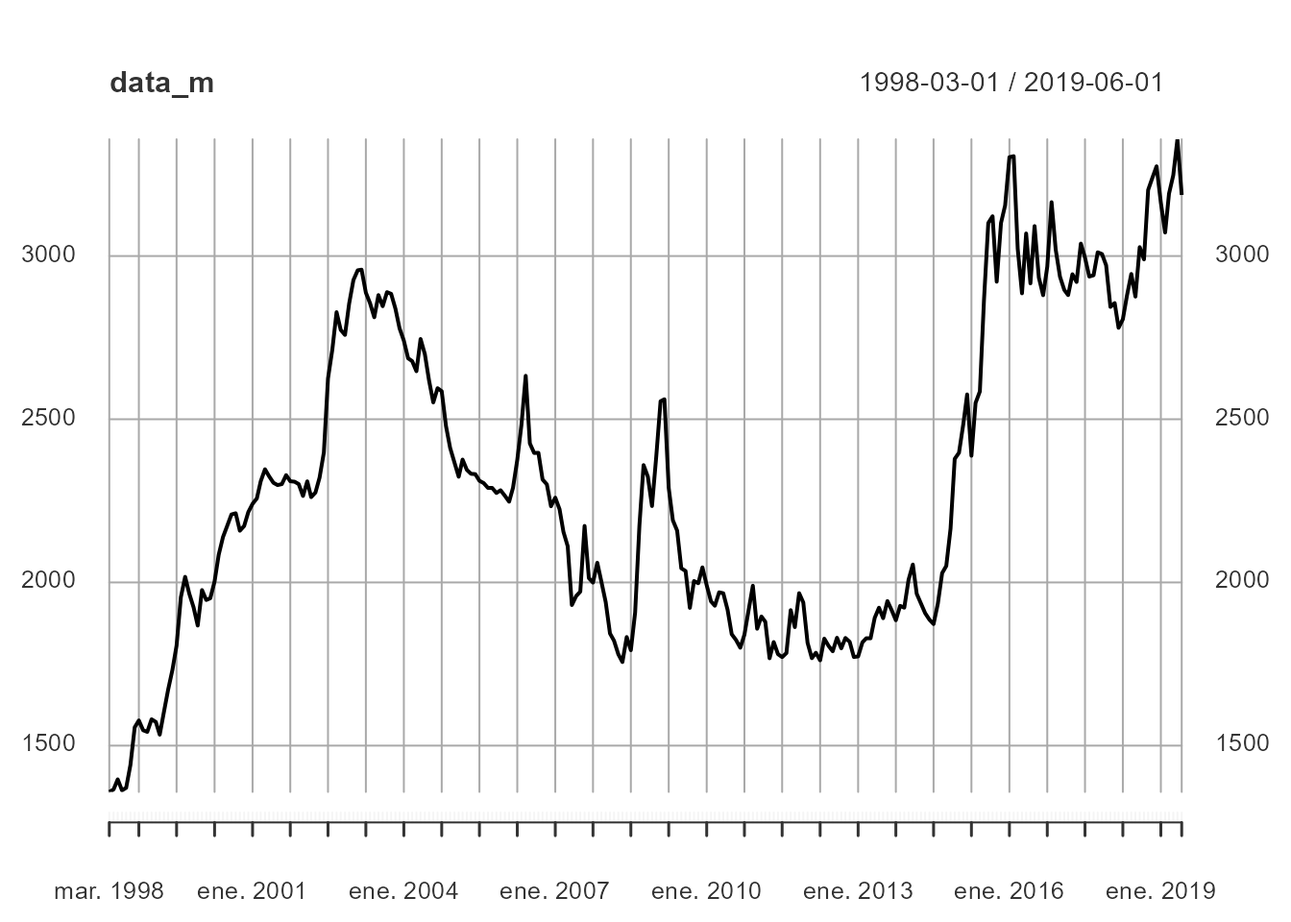
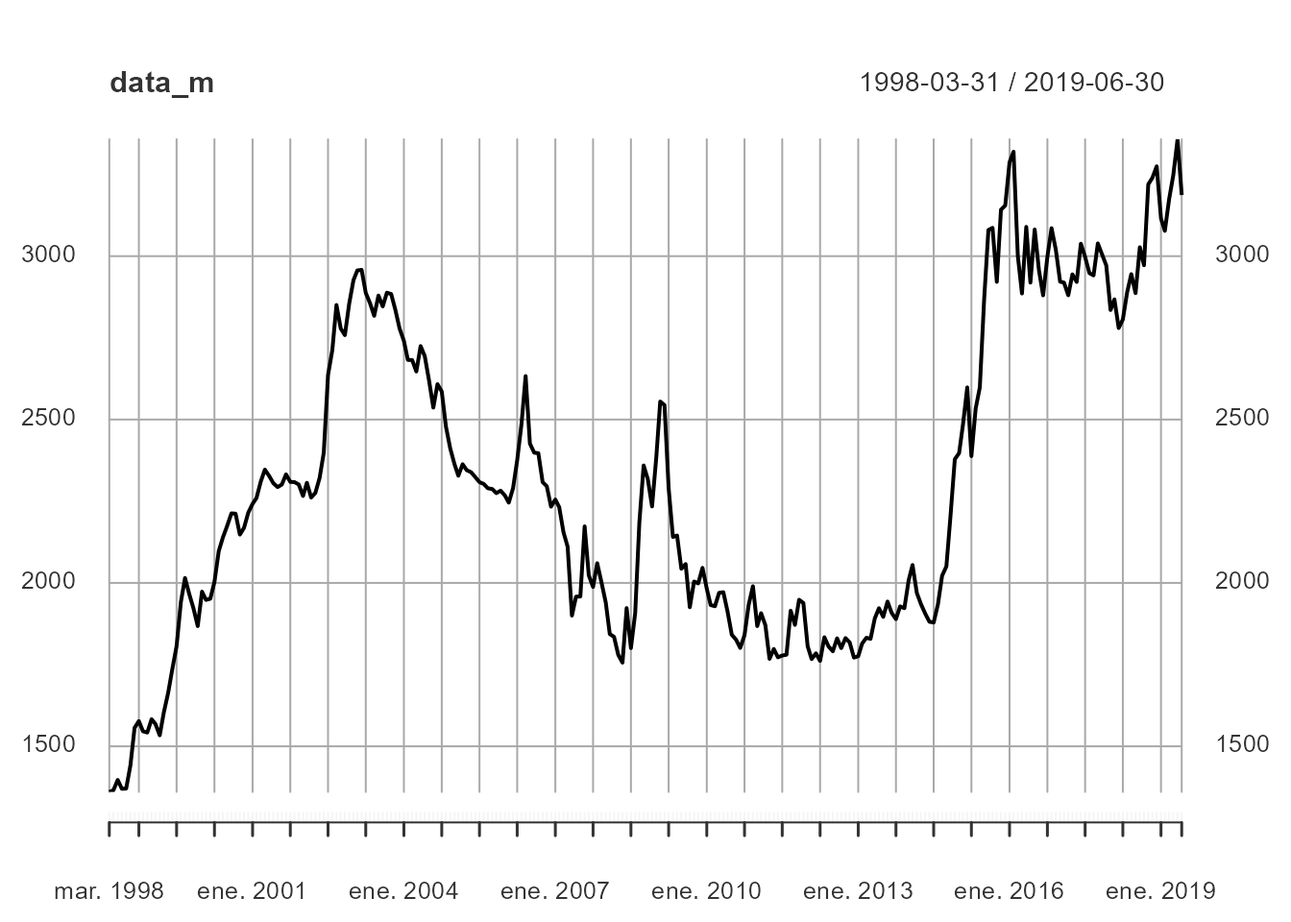
cambios en pagina

diff --git a/docs/articles/citmre.html b/docs/articles/citmre.html
@@ -7,12 +7,19 @@
 <meta name="viewport" content="width=device-width, initial-scale=1, shrink-to-fit=no">
 <meta name="description" content="citmre">
 <title>cITMre • citmre</title>
+<!-- favicons --><link rel="icon" type="image/png" sizes="16x16" href="../favicon-16x16.png">
+<link rel="icon" type="image/png" sizes="32x32" href="../favicon-32x32.png">
+<link rel="apple-touch-icon" type="image/png" sizes="180x180" href="../apple-touch-icon.png">
+<link rel="apple-touch-icon" type="image/png" sizes="120x120" href="../apple-touch-icon-120x120.png">
+<link rel="apple-touch-icon" type="image/png" sizes="76x76" href="../apple-touch-icon-76x76.png">
+<link rel="apple-touch-icon" type="image/png" sizes="60x60" href="../apple-touch-icon-60x60.png">
 <script src="../deps/jquery-3.6.0/jquery-3.6.0.min.js"></script><meta name="viewport" content="width=device-width, initial-scale=1, shrink-to-fit=no">
 <link href="../deps/bootstrap-5.3.1/bootstrap.min.css" rel="stylesheet">
 <script src="../deps/bootstrap-5.3.1/bootstrap.bundle.min.js"></script><!-- Font Awesome icons --><link rel="stylesheet" href="https://cdnjs.cloudflare.com/ajax/libs/font-awesome/5.12.1/css/all.min.css" integrity="sha256-mmgLkCYLUQbXn0B1SRqzHar6dCnv9oZFPEC1g1cwlkk=" crossorigin="anonymous">
 <link rel="stylesheet" href="https://cdnjs.cloudflare.com/ajax/libs/font-awesome/5.12.1/css/v4-shims.min.css" integrity="sha256-wZjR52fzng1pJHwx4aV2AO3yyTOXrcDW7jBpJtTwVxw=" crossorigin="anonymous">
 <!-- bootstrap-toc --><script src="https://cdn.jsdelivr.net/gh/afeld/bootstrap-toc@v1.0.1/dist/bootstrap-toc.min.js" integrity="sha256-4veVQbu7//Lk5TSmc7YV48MxtMy98e26cf5MrgZYnwo=" crossorigin="anonymous"></script><!-- headroom.js --><script src="https://cdnjs.cloudflare.com/ajax/libs/headroom/0.11.0/headroom.min.js" integrity="sha256-AsUX4SJE1+yuDu5+mAVzJbuYNPHj/WroHuZ8Ir/CkE0=" crossorigin="anonymous"></script><script src="https://cdnjs.cloudflare.com/ajax/libs/headroom/0.11.0/jQuery.headroom.min.js" integrity="sha256-ZX/yNShbjqsohH1k95liqY9Gd8uOiE1S4vZc+9KQ1K4=" crossorigin="anonymous"></script><!-- clipboard.js --><script src="https://cdnjs.cloudflare.com/ajax/libs/clipboard.js/2.0.6/clipboard.min.js" integrity="sha256-inc5kl9MA1hkeYUt+EC3BhlIgyp/2jDIyBLS6k3UxPI=" crossorigin="anonymous"></script><!-- search --><script src="https://cdnjs.cloudflare.com/ajax/libs/fuse.js/6.4.6/fuse.js" integrity="sha512-zv6Ywkjyktsohkbp9bb45V6tEMoWhzFzXis+LrMehmJZZSys19Yxf1dopHx7WzIKxr5tK2dVcYmaCk2uqdjF4A==" crossorigin="anonymous"></script><script src="https://cdnjs.cloudflare.com/ajax/libs/autocomplete.js/0.38.0/autocomplete.jquery.min.js" integrity="sha512-GU9ayf+66Xx2TmpxqJpliWbT5PiGYxpaG8rfnBEk1LL8l1KGkRShhngwdXK1UgqhAzWpZHSiYPc09/NwDQIGyg==" crossorigin="anonymous"></script><script src="https://cdnjs.cloudflare.com/ajax/libs/mark.js/8.11.1/mark.min.js" integrity="sha512-5CYOlHXGh6QpOFA/TeTylKLWfB3ftPsde7AnmhuitiTX4K5SqCLBeKro6sPS8ilsz1Q4NRx3v8Ko2IBiszzdww==" crossorigin="anonymous"></script><!-- pkgdown --><script src="../pkgdown.js"></script><meta property="og:title" content="cITMre">
 <meta property="og:description" content="citmre">
+<meta property="og:image" content="https://davrodecon.github.io/citmre/logo.png">
 <!-- mathjax --><script src="https://cdnjs.cloudflare.com/ajax/libs/mathjax/2.7.5/MathJax.js" integrity="sha256-nvJJv9wWKEm88qvoQl9ekL2J+k/RWIsaSScxxlsrv8k=" crossorigin="anonymous"></script><script src="https://cdnjs.cloudflare.com/ajax/libs/mathjax/2.7.5/config/TeX-AMS-MML_HTMLorMML.js" integrity="sha256-84DKXVJXs0/F8OTMzX4UR909+jtl4G7SPypPavF+GfA=" crossorigin="anonymous"></script><!--[if lt IE 9]>
 <script src="https://oss.maxcdn.com/html5shiv/3.7.3/html5shiv.min.js"></script>
 <script src="https://oss.maxcdn.com/respond/1.4.2/respond.min.js"></script>
@@ -65,7 +72,7 @@
 
 <div class="row">
   <main id="main" class="col-md-9"><div class="page-header">
-      <img src="" class="logo" alt=""><h1>cITMre</h1>
+      <img src="../logo.png" class="logo" alt=""><h1>cITMre</h1>
             
       
       <small class="dont-index">Source: <a href="https://github.com/DavRodEcon/citmre/blob/HEAD/vignettes/citmre.Rmd" class="external-link"><code>vignettes/citmre.Rmd</code></a></small>
@@ -197,20 +204,20 @@ By default, the <code>type</code> is set to <code>last_date</code>.</p>
 <span><span class="va">data_m</span> <span class="op">&lt;-</span> <span class="fu"><a href="../reference/rmre_data.html">rmre_data</a></span><span class="op">(</span>start_date <span class="op">=</span> <span class="st">"1998-03-18"</span>, end_date <span class="op">=</span> <span class="st">"2019-06-26"</span>,frequency <span class="op">=</span> <span class="fl">12</span><span class="op">)</span></span>
 <span><span class="fu"><a href="https://rdrr.io/r/utils/head.html" class="external-link">head</a></span><span class="op">(</span><span class="va">data_m</span><span class="op">)</span></span>
 <span><span class="co">#&gt;               rmre</span></span>
-<span><span class="co">#&gt; 1998-03-01 1358.03</span></span>
-<span><span class="co">#&gt; 1998-04-01 1365.72</span></span>
-<span><span class="co">#&gt; 1998-05-01 1396.69</span></span>
-<span><span class="co">#&gt; 1998-06-01 1363.04</span></span>
-<span><span class="co">#&gt; 1998-07-01 1370.65</span></span>
-<span><span class="co">#&gt; 1998-08-01 1440.87</span></span>
+<span><span class="co">#&gt; 1998-03-31 1360.26</span></span>
+<span><span class="co">#&gt; 1998-04-30 1365.72</span></span>
+<span><span class="co">#&gt; 1998-05-31 1397.07</span></span>
+<span><span class="co">#&gt; 1998-06-30 1369.88</span></span>
+<span><span class="co">#&gt; 1998-07-31 1370.65</span></span>
+<span><span class="co">#&gt; 1998-08-31 1441.86</span></span>
 <span><span class="fu"><a href="https://rdrr.io/r/utils/head.html" class="external-link">tail</a></span><span class="op">(</span><span class="va">data_m</span><span class="op">)</span></span>
 <span><span class="co">#&gt;               rmre</span></span>
-<span><span class="co">#&gt; 2019-01-01 3163.46</span></span>
-<span><span class="co">#&gt; 2019-02-01 3072.01</span></span>
-<span><span class="co">#&gt; 2019-03-01 3190.94</span></span>
-<span><span class="co">#&gt; 2019-04-01 3247.72</span></span>
-<span><span class="co">#&gt; 2019-05-01 3357.82</span></span>
-<span><span class="co">#&gt; 2019-06-01 3187.15</span></span>
+<span><span class="co">#&gt; 2019-01-31 3115.70</span></span>
+<span><span class="co">#&gt; 2019-02-28 3077.35</span></span>
+<span><span class="co">#&gt; 2019-03-31 3174.79</span></span>
+<span><span class="co">#&gt; 2019-04-30 3247.72</span></span>
+<span><span class="co">#&gt; 2019-05-31 3357.82</span></span>
+<span><span class="co">#&gt; 2019-06-30 3187.15</span></span>
 <span><span class="fu"><a href="https://rdrr.io/r/graphics/plot.default.html" class="external-link">plot</a></span><span class="op">(</span><span class="va">data_m</span><span class="op">)</span></span></code></pre></div>
 <p><img src="citmre_files/figure-html/plot_456-1.png" width="672" style="display: block; margin: auto;"></p>
 <div class="sourceCode" id="cb6"><pre class="downlit sourceCode r">
@@ -219,20 +226,20 @@ By default, the <code>type</code> is set to <code>last_date</code>.</p>
 <span><span class="va">data_q</span> <span class="op">&lt;-</span> <span class="fu"><a href="../reference/rmre_data.html">rmre_data</a></span><span class="op">(</span>start_date <span class="op">=</span> <span class="st">"1998-03-18"</span>, end_date <span class="op">=</span> <span class="st">"2019-06-26"</span>,frequency <span class="op">=</span> <span class="fl">4</span>, log_return <span class="op">=</span> <span class="cn">T</span><span class="op">)</span></span>
 <span><span class="fu"><a href="https://rdrr.io/r/utils/head.html" class="external-link">head</a></span><span class="op">(</span><span class="va">data_q</span><span class="op">)</span></span>
 <span><span class="co">#&gt;              log_return</span></span>
-<span><span class="co">#&gt; 1998-04-01  0.003682379</span></span>
-<span><span class="co">#&gt; 1998-07-01  0.132497323</span></span>
-<span><span class="co">#&gt; 1998-10-01 -0.009063214</span></span>
-<span><span class="co">#&gt; 1999-01-01 -0.005592383</span></span>
-<span><span class="co">#&gt; 1999-04-01  0.121775320</span></span>
-<span><span class="co">#&gt; 1999-07-01  0.152410567</span></span>
+<span><span class="co">#&gt; 1998-06-30  0.007047287</span></span>
+<span><span class="co">#&gt; 1998-09-30  0.127729415</span></span>
+<span><span class="co">#&gt; 1998-12-31 -0.009300952</span></span>
+<span><span class="co">#&gt; 1999-03-31 -0.005592383</span></span>
+<span><span class="co">#&gt; 1999-06-30  0.124041672</span></span>
+<span><span class="co">#&gt; 1999-09-30  0.149092737</span></span>
 <span><span class="fu"><a href="https://rdrr.io/r/utils/head.html" class="external-link">tail</a></span><span class="op">(</span><span class="va">data_q</span><span class="op">)</span></span>
 <span><span class="co">#&gt;              log_return</span></span>
-<span><span class="co">#&gt; 2018-01-01 -0.066645308</span></span>
-<span><span class="co">#&gt; 2018-04-01  0.057674061</span></span>
-<span><span class="co">#&gt; 2018-07-01  0.014993532</span></span>
-<span><span class="co">#&gt; 2018-10-01  0.091188013</span></span>
-<span><span class="co">#&gt; 2019-01-01 -0.026005378</span></span>
-<span><span class="co">#&gt; 2019-04-01 -0.001188444</span></span>
+<span><span class="co">#&gt; 2018-03-31 -0.066645308</span></span>
+<span><span class="co">#&gt; 2018-06-30  0.057674061</span></span>
+<span><span class="co">#&gt; 2018-09-30  0.009156313</span></span>
+<span><span class="co">#&gt; 2018-12-31  0.097025232</span></span>
+<span><span class="co">#&gt; 2019-03-31 -0.031079434</span></span>
+<span><span class="co">#&gt; 2019-06-30  0.003885612</span></span>
 <span><span class="fu"><a href="https://rdrr.io/r/graphics/plot.default.html" class="external-link">plot</a></span><span class="op">(</span><span class="va">data_q</span><span class="op">)</span></span></code></pre></div>
 <p><img src="citmre_files/figure-html/plot_456-2.png" width="672" style="display: block; margin: auto;"></p>
 <div class="sourceCode" id="cb7"><pre class="downlit sourceCode r">
@@ -241,20 +248,20 @@ By default, the <code>type</code> is set to <code>last_date</code>.</p>
 <span><span class="va">data_s</span> <span class="op">&lt;-</span> <span class="fu"><a href="../reference/rmre_data.html">rmre_data</a></span><span class="op">(</span>start_date <span class="op">=</span> <span class="st">"1998-03-18"</span>, end_date <span class="op">=</span> <span class="st">"2019-06-26"</span>,frequency <span class="op">=</span> <span class="fl">2</span>, type <span class="op">=</span> <span class="st">"mean"</span><span class="op">)</span></span>
 <span><span class="fu"><a href="https://rdrr.io/r/utils/head.html" class="external-link">head</a></span><span class="op">(</span><span class="va">data_s</span><span class="op">)</span></span>
 <span><span class="co">#&gt;                rmre</span></span>
-<span><span class="co">#&gt; 1998-01-01 1375.469</span></span>
-<span><span class="co">#&gt; 1998-07-01 1492.311</span></span>
-<span><span class="co">#&gt; 1999-01-01 1598.964</span></span>
-<span><span class="co">#&gt; 1999-07-01 1914.659</span></span>
-<span><span class="co">#&gt; 2000-01-01 1998.886</span></span>
-<span><span class="co">#&gt; 2000-07-01 2176.997</span></span>
+<span><span class="co">#&gt; 1998-06-30 1375.387</span></span>
+<span><span class="co">#&gt; 1998-12-31 1493.306</span></span>
+<span><span class="co">#&gt; 1999-06-30 1600.087</span></span>
+<span><span class="co">#&gt; 1999-12-31 1916.123</span></span>
+<span><span class="co">#&gt; 2000-06-30 1998.886</span></span>
+<span><span class="co">#&gt; 2000-12-31 2176.997</span></span>
 <span><span class="fu"><a href="https://rdrr.io/r/utils/head.html" class="external-link">tail</a></span><span class="op">(</span><span class="va">data_s</span><span class="op">)</span></span>
 <span><span class="co">#&gt;                rmre</span></span>
-<span><span class="co">#&gt; 2016-07-01 2979.731</span></span>
-<span><span class="co">#&gt; 2017-01-01 2921.711</span></span>
-<span><span class="co">#&gt; 2017-07-01 2980.267</span></span>
-<span><span class="co">#&gt; 2018-01-01 2849.155</span></span>
-<span><span class="co">#&gt; 2018-07-01 3060.683</span></span>
-<span><span class="co">#&gt; 2019-01-01 3187.564</span></span>
+<span><span class="co">#&gt; 2016-12-31 2980.250</span></span>
+<span><span class="co">#&gt; 2017-06-30 2921.711</span></span>
+<span><span class="co">#&gt; 2017-12-31 2980.267</span></span>
+<span><span class="co">#&gt; 2018-06-30 2849.155</span></span>
+<span><span class="co">#&gt; 2018-12-31 3060.683</span></span>
+<span><span class="co">#&gt; 2019-06-30 3187.564</span></span>
 <span><span class="fu"><a href="https://rdrr.io/r/graphics/plot.default.html" class="external-link">plot</a></span><span class="op">(</span><span class="va">data_s</span><span class="op">)</span></span></code></pre></div>
 <p><img src="citmre_files/figure-html/plot_456-3.png" width="672" style="display: block; margin: auto;"></p>
 <p>Finally, some researchers feel that displaying a dynamic graph

diff --git a/docs/reference/rmre_data.html b/docs/reference/rmre_data.html
@@ -1,5 +1,5 @@
 <!DOCTYPE html>
-<!-- Generated by pkgdown: do not edit by hand --><html lang="en"><head><meta http-equiv="Content-Type" content="text/html; charset=UTF-8"><meta charset="utf-8"><meta http-equiv="X-UA-Compatible" content="IE=edge"><meta name="viewport" content="width=device-width, initial-scale=1, shrink-to-fit=no"><meta name="description" content="Download the colombian RMRE (Representative Market Rate Exchange) from from the source: https://www.datos.gov.co/Econom-a-y-Finanzas/TRM/ceyp-9c7c/data"><title>rmre_data (Representative Market Rate Exchange) dataset — rmre_data • citmre</title><script src="../deps/jquery-3.6.0/jquery-3.6.0.min.js"></script><meta name="viewport" content="width=device-width, initial-scale=1, shrink-to-fit=no"><link href="../deps/bootstrap-5.3.1/bootstrap.min.css" rel="stylesheet"><script src="../deps/bootstrap-5.3.1/bootstrap.bundle.min.js"></script><!-- Font Awesome icons --><link rel="stylesheet" href="https://cdnjs.cloudflare.com/ajax/libs/font-awesome/5.12.1/css/all.min.css" integrity="sha256-mmgLkCYLUQbXn0B1SRqzHar6dCnv9oZFPEC1g1cwlkk=" crossorigin="anonymous"><link rel="stylesheet" href="https://cdnjs.cloudflare.com/ajax/libs/font-awesome/5.12.1/css/v4-shims.min.css" integrity="sha256-wZjR52fzng1pJHwx4aV2AO3yyTOXrcDW7jBpJtTwVxw=" crossorigin="anonymous"><!-- bootstrap-toc --><script src="https://cdn.jsdelivr.net/gh/afeld/bootstrap-toc@v1.0.1/dist/bootstrap-toc.min.js" integrity="sha256-4veVQbu7//Lk5TSmc7YV48MxtMy98e26cf5MrgZYnwo=" crossorigin="anonymous"></script><!-- headroom.js --><script src="https://cdnjs.cloudflare.com/ajax/libs/headroom/0.11.0/headroom.min.js" integrity="sha256-AsUX4SJE1+yuDu5+mAVzJbuYNPHj/WroHuZ8Ir/CkE0=" crossorigin="anonymous"></script><script src="https://cdnjs.cloudflare.com/ajax/libs/headroom/0.11.0/jQuery.headroom.min.js" integrity="sha256-ZX/yNShbjqsohH1k95liqY9Gd8uOiE1S4vZc+9KQ1K4=" crossorigin="anonymous"></script><!-- clipboard.js --><script src="https://cdnjs.cloudflare.com/ajax/libs/clipboard.js/2.0.6/clipboard.min.js" integrity="sha256-inc5kl9MA1hkeYUt+EC3BhlIgyp/2jDIyBLS6k3UxPI=" crossorigin="anonymous"></script><!-- search --><script src="https://cdnjs.cloudflare.com/ajax/libs/fuse.js/6.4.6/fuse.js" integrity="sha512-zv6Ywkjyktsohkbp9bb45V6tEMoWhzFzXis+LrMehmJZZSys19Yxf1dopHx7WzIKxr5tK2dVcYmaCk2uqdjF4A==" crossorigin="anonymous"></script><script src="https://cdnjs.cloudflare.com/ajax/libs/autocomplete.js/0.38.0/autocomplete.jquery.min.js" integrity="sha512-GU9ayf+66Xx2TmpxqJpliWbT5PiGYxpaG8rfnBEk1LL8l1KGkRShhngwdXK1UgqhAzWpZHSiYPc09/NwDQIGyg==" crossorigin="anonymous"></script><script src="https://cdnjs.cloudflare.com/ajax/libs/mark.js/8.11.1/mark.min.js" integrity="sha512-5CYOlHXGh6QpOFA/TeTylKLWfB3ftPsde7AnmhuitiTX4K5SqCLBeKro6sPS8ilsz1Q4NRx3v8Ko2IBiszzdww==" crossorigin="anonymous"></script><!-- pkgdown --><script src="../pkgdown.js"></script><meta property="og:title" content="rmre_data (Representative Market Rate Exchange) dataset — rmre_data"><meta property="og:description" content="Download the colombian RMRE (Representative Market Rate Exchange) from from the source: https://www.datos.gov.co/Econom-a-y-Finanzas/TRM/ceyp-9c7c/data"><!-- mathjax --><script src="https://cdnjs.cloudflare.com/ajax/libs/mathjax/2.7.5/MathJax.js" integrity="sha256-nvJJv9wWKEm88qvoQl9ekL2J+k/RWIsaSScxxlsrv8k=" crossorigin="anonymous"></script><script src="https://cdnjs.cloudflare.com/ajax/libs/mathjax/2.7.5/config/TeX-AMS-MML_HTMLorMML.js" integrity="sha256-84DKXVJXs0/F8OTMzX4UR909+jtl4G7SPypPavF+GfA=" crossorigin="anonymous"></script><!--[if lt IE 9]>
+<!-- Generated by pkgdown: do not edit by hand --><html lang="en"><head><meta http-equiv="Content-Type" content="text/html; charset=UTF-8"><meta charset="utf-8"><meta http-equiv="X-UA-Compatible" content="IE=edge"><meta name="viewport" content="width=device-width, initial-scale=1, shrink-to-fit=no"><meta name="description" content="Download the colombian RMRE source: Portal de Datos Abiertos &amp;lt;www.datos.gov.co&amp;gt;"><title>rmre_data (Representative Market Rate Exchange) dataset — rmre_data • citmre</title><!-- favicons --><link rel="icon" type="image/png" sizes="16x16" href="../favicon-16x16.png"><link rel="icon" type="image/png" sizes="32x32" href="../favicon-32x32.png"><link rel="apple-touch-icon" type="image/png" sizes="180x180" href="../apple-touch-icon.png"><link rel="apple-touch-icon" type="image/png" sizes="120x120" href="../apple-touch-icon-120x120.png"><link rel="apple-touch-icon" type="image/png" sizes="76x76" href="../apple-touch-icon-76x76.png"><link rel="apple-touch-icon" type="image/png" sizes="60x60" href="../apple-touch-icon-60x60.png"><script src="../deps/jquery-3.6.0/jquery-3.6.0.min.js"></script><meta name="viewport" content="width=device-width, initial-scale=1, shrink-to-fit=no"><link href="../deps/bootstrap-5.3.1/bootstrap.min.css" rel="stylesheet"><script src="../deps/bootstrap-5.3.1/bootstrap.bundle.min.js"></script><!-- Font Awesome icons --><link rel="stylesheet" href="https://cdnjs.cloudflare.com/ajax/libs/font-awesome/5.12.1/css/all.min.css" integrity="sha256-mmgLkCYLUQbXn0B1SRqzHar6dCnv9oZFPEC1g1cwlkk=" crossorigin="anonymous"><link rel="stylesheet" href="https://cdnjs.cloudflare.com/ajax/libs/font-awesome/5.12.1/css/v4-shims.min.css" integrity="sha256-wZjR52fzng1pJHwx4aV2AO3yyTOXrcDW7jBpJtTwVxw=" crossorigin="anonymous"><!-- bootstrap-toc --><script src="https://cdn.jsdelivr.net/gh/afeld/bootstrap-toc@v1.0.1/dist/bootstrap-toc.min.js" integrity="sha256-4veVQbu7//Lk5TSmc7YV48MxtMy98e26cf5MrgZYnwo=" crossorigin="anonymous"></script><!-- headroom.js --><script src="https://cdnjs.cloudflare.com/ajax/libs/headroom/0.11.0/headroom.min.js" integrity="sha256-AsUX4SJE1+yuDu5+mAVzJbuYNPHj/WroHuZ8Ir/CkE0=" crossorigin="anonymous"></script><script src="https://cdnjs.cloudflare.com/ajax/libs/headroom/0.11.0/jQuery.headroom.min.js" integrity="sha256-ZX/yNShbjqsohH1k95liqY9Gd8uOiE1S4vZc+9KQ1K4=" crossorigin="anonymous"></script><!-- clipboard.js --><script src="https://cdnjs.cloudflare.com/ajax/libs/clipboard.js/2.0.6/clipboard.min.js" integrity="sha256-inc5kl9MA1hkeYUt+EC3BhlIgyp/2jDIyBLS6k3UxPI=" crossorigin="anonymous"></script><!-- search --><script src="https://cdnjs.cloudflare.com/ajax/libs/fuse.js/6.4.6/fuse.js" integrity="sha512-zv6Ywkjyktsohkbp9bb45V6tEMoWhzFzXis+LrMehmJZZSys19Yxf1dopHx7WzIKxr5tK2dVcYmaCk2uqdjF4A==" crossorigin="anonymous"></script><script src="https://cdnjs.cloudflare.com/ajax/libs/autocomplete.js/0.38.0/autocomplete.jquery.min.js" integrity="sha512-GU9ayf+66Xx2TmpxqJpliWbT5PiGYxpaG8rfnBEk1LL8l1KGkRShhngwdXK1UgqhAzWpZHSiYPc09/NwDQIGyg==" crossorigin="anonymous"></script><script src="https://cdnjs.cloudflare.com/ajax/libs/mark.js/8.11.1/mark.min.js" integrity="sha512-5CYOlHXGh6QpOFA/TeTylKLWfB3ftPsde7AnmhuitiTX4K5SqCLBeKro6sPS8ilsz1Q4NRx3v8Ko2IBiszzdww==" crossorigin="anonymous"></script><!-- pkgdown --><script src="../pkgdown.js"></script><meta property="og:title" content="rmre_data (Representative Market Rate Exchange) dataset — rmre_data"><meta property="og:description" content="Download the colombian RMRE source: Portal de Datos Abiertos &amp;lt;www.datos.gov.co&amp;gt;"><meta property="og:image" content="https://davrodecon.github.io/citmre/logo.png"><!-- mathjax --><script src="https://cdnjs.cloudflare.com/ajax/libs/mathjax/2.7.5/MathJax.js" integrity="sha256-nvJJv9wWKEm88qvoQl9ekL2J+k/RWIsaSScxxlsrv8k=" crossorigin="anonymous"></script><script src="https://cdnjs.cloudflare.com/ajax/libs/mathjax/2.7.5/config/TeX-AMS-MML_HTMLorMML.js" integrity="sha256-84DKXVJXs0/F8OTMzX4UR909+jtl4G7SPypPavF+GfA=" crossorigin="anonymous"></script><!--[if lt IE 9]>
 <script src="https://oss.maxcdn.com/html5shiv/3.7.3/html5shiv.min.js"></script>
 <script src="https://oss.maxcdn.com/respond/1.4.2/respond.min.js"></script>
 <![endif]--></head><body>
@@ -40,13 +40,13 @@
 </nav><div class="container template-reference-topic">
 <div class="row">
   <main id="main" class="col-md-9"><div class="page-header">
-      <img src="" class="logo" alt=""><h1>rmre_data (Representative Market Rate Exchange) dataset</h1>
+      <img src="../logo.png" class="logo" alt=""><h1>rmre_data (Representative Market Rate Exchange) dataset</h1>
       <small class="dont-index">Source: <a href="https://github.com/DavRodEcon/citmre/blob/HEAD/R/citmre_code.R" class="external-link"><code>R/citmre_code.R</code></a></small>
       <div class="d-none name"><code>rmre_data.Rd</code></div>
     </div>
 
     <div class="ref-description section level2">
-    <p>Download the colombian RMRE (Representative Market Rate Exchange) from from the source: https://www.datos.gov.co/Econom-a-y-Finanzas/TRM/ceyp-9c7c/data</p>
+    <p>Download the colombian RMRE source: Portal de Datos Abiertos &lt;www.datos.gov.co&gt;</p>
     </div>
 
     <div class="section level2">
@@ -64,11 +64,11 @@
     <div class="section level2">
     <h2 id="arguments">Arguments<a class="anchor" aria-label="anchor" href="#arguments"></a></h2>
     <dl><dt>start_date</dt>
-<dd><p>An initial date in the "Y-M-D" type; by default, the series starts on the first date of the resource</p></dd>
+<dd><p>An initial date in the "YYYY-MM-DD" type; by default, the series starts on the first date of the resource</p></dd>
 
 
 <dt>end_date</dt>
-<dd><p>A final date in the "Y-M-D" form; by default, it shows the updated last date on the resource.</p></dd>
+<dd><p>A final date in the "YYYY-MM-DD" form; by default, it shows the updated last date on the resource.</p></dd>
 
 
 <dt>log_return</dt>
@@ -107,8 +107,8 @@
 <span class="r-in"><span></span></span>
 <span class="r-in"><span><span class="co">#Show splited log return dataset</span></span></span>
 <span class="r-in"><span><span class="va">rmre_splited</span> <span class="op">&lt;-</span> <span class="fu">rmre_data</span><span class="op">(</span><span class="st">'2000-01-01'</span>,<span class="st">'2023-12-31'</span>,log_return <span class="op">=</span> <span class="cn">TRUE</span><span class="op">)</span></span></span>
-<span class="r-wrn co"><span class="r-pr">#&gt;</span> <span class="warning">Warning: </span>start_date: The piece of information will be obtained from the next business day, as the desired date falls on a holiday or weekend.</span>
-<span class="r-wrn co"><span class="r-pr">#&gt;</span> <span class="warning">Warning: </span>end_date: The piece of information will be obtained from the next business day, as the desired date falls on a holiday or weekend.</span>
+<span class="r-wrn co"><span class="r-pr">#&gt;</span> <span class="warning">Warning: </span>start_date:The information will be obtained from the next business day, as the desired date is a holiday or weekend.</span>
+<span class="r-wrn co"><span class="r-pr">#&gt;</span> <span class="warning">Warning: </span>end_date: The information will be obtained from the next business day, as the desired date is a holiday or weekend.</span>
 </code></pre></div>
     </div>
   </main><aside class="col-md-3"><nav id="toc"><h2>On this page</h2>

diff --git a/docs/reference/index.html b/docs/reference/index.html
@@ -1,5 +1,5 @@
 <!DOCTYPE html>
-<!-- Generated by pkgdown: do not edit by hand --><html lang="en"><head><meta http-equiv="Content-Type" content="text/html; charset=UTF-8"><meta charset="utf-8"><meta http-equiv="X-UA-Compatible" content="IE=edge"><meta name="viewport" content="width=device-width, initial-scale=1, shrink-to-fit=no"><title>Function reference • citmre</title><script src="../deps/jquery-3.6.0/jquery-3.6.0.min.js"></script><meta name="viewport" content="width=device-width, initial-scale=1, shrink-to-fit=no"><link href="../deps/bootstrap-5.3.1/bootstrap.min.css" rel="stylesheet"><script src="../deps/bootstrap-5.3.1/bootstrap.bundle.min.js"></script><!-- Font Awesome icons --><link rel="stylesheet" href="https://cdnjs.cloudflare.com/ajax/libs/font-awesome/5.12.1/css/all.min.css" integrity="sha256-mmgLkCYLUQbXn0B1SRqzHar6dCnv9oZFPEC1g1cwlkk=" crossorigin="anonymous"><link rel="stylesheet" href="https://cdnjs.cloudflare.com/ajax/libs/font-awesome/5.12.1/css/v4-shims.min.css" integrity="sha256-wZjR52fzng1pJHwx4aV2AO3yyTOXrcDW7jBpJtTwVxw=" crossorigin="anonymous"><!-- bootstrap-toc --><script src="https://cdn.jsdelivr.net/gh/afeld/bootstrap-toc@v1.0.1/dist/bootstrap-toc.min.js" integrity="sha256-4veVQbu7//Lk5TSmc7YV48MxtMy98e26cf5MrgZYnwo=" crossorigin="anonymous"></script><!-- headroom.js --><script src="https://cdnjs.cloudflare.com/ajax/libs/headroom/0.11.0/headroom.min.js" integrity="sha256-AsUX4SJE1+yuDu5+mAVzJbuYNPHj/WroHuZ8Ir/CkE0=" crossorigin="anonymous"></script><script src="https://cdnjs.cloudflare.com/ajax/libs/headroom/0.11.0/jQuery.headroom.min.js" integrity="sha256-ZX/yNShbjqsohH1k95liqY9Gd8uOiE1S4vZc+9KQ1K4=" crossorigin="anonymous"></script><!-- clipboard.js --><script src="https://cdnjs.cloudflare.com/ajax/libs/clipboard.js/2.0.6/clipboard.min.js" integrity="sha256-inc5kl9MA1hkeYUt+EC3BhlIgyp/2jDIyBLS6k3UxPI=" crossorigin="anonymous"></script><!-- search --><script src="https://cdnjs.cloudflare.com/ajax/libs/fuse.js/6.4.6/fuse.js" integrity="sha512-zv6Ywkjyktsohkbp9bb45V6tEMoWhzFzXis+LrMehmJZZSys19Yxf1dopHx7WzIKxr5tK2dVcYmaCk2uqdjF4A==" crossorigin="anonymous"></script><script src="https://cdnjs.cloudflare.com/ajax/libs/autocomplete.js/0.38.0/autocomplete.jquery.min.js" integrity="sha512-GU9ayf+66Xx2TmpxqJpliWbT5PiGYxpaG8rfnBEk1LL8l1KGkRShhngwdXK1UgqhAzWpZHSiYPc09/NwDQIGyg==" crossorigin="anonymous"></script><script src="https://cdnjs.cloudflare.com/ajax/libs/mark.js/8.11.1/mark.min.js" integrity="sha512-5CYOlHXGh6QpOFA/TeTylKLWfB3ftPsde7AnmhuitiTX4K5SqCLBeKro6sPS8ilsz1Q4NRx3v8Ko2IBiszzdww==" crossorigin="anonymous"></script><!-- pkgdown --><script src="../pkgdown.js"></script><meta property="og:title" content="Function reference"><!-- mathjax --><script src="https://cdnjs.cloudflare.com/ajax/libs/mathjax/2.7.5/MathJax.js" integrity="sha256-nvJJv9wWKEm88qvoQl9ekL2J+k/RWIsaSScxxlsrv8k=" crossorigin="anonymous"></script><script src="https://cdnjs.cloudflare.com/ajax/libs/mathjax/2.7.5/config/TeX-AMS-MML_HTMLorMML.js" integrity="sha256-84DKXVJXs0/F8OTMzX4UR909+jtl4G7SPypPavF+GfA=" crossorigin="anonymous"></script><!--[if lt IE 9]>
+<!-- Generated by pkgdown: do not edit by hand --><html lang="en"><head><meta http-equiv="Content-Type" content="text/html; charset=UTF-8"><meta charset="utf-8"><meta http-equiv="X-UA-Compatible" content="IE=edge"><meta name="viewport" content="width=device-width, initial-scale=1, shrink-to-fit=no"><title>Function reference • citmre</title><!-- favicons --><link rel="icon" type="image/png" sizes="16x16" href="../favicon-16x16.png"><link rel="icon" type="image/png" sizes="32x32" href="../favicon-32x32.png"><link rel="apple-touch-icon" type="image/png" sizes="180x180" href="../apple-touch-icon.png"><link rel="apple-touch-icon" type="image/png" sizes="120x120" href="../apple-touch-icon-120x120.png"><link rel="apple-touch-icon" type="image/png" sizes="76x76" href="../apple-touch-icon-76x76.png"><link rel="apple-touch-icon" type="image/png" sizes="60x60" href="../apple-touch-icon-60x60.png"><script src="../deps/jquery-3.6.0/jquery-3.6.0.min.js"></script><meta name="viewport" content="width=device-width, initial-scale=1, shrink-to-fit=no"><link href="../deps/bootstrap-5.3.1/bootstrap.min.css" rel="stylesheet"><script src="../deps/bootstrap-5.3.1/bootstrap.bundle.min.js"></script><!-- Font Awesome icons --><link rel="stylesheet" href="https://cdnjs.cloudflare.com/ajax/libs/font-awesome/5.12.1/css/all.min.css" integrity="sha256-mmgLkCYLUQbXn0B1SRqzHar6dCnv9oZFPEC1g1cwlkk=" crossorigin="anonymous"><link rel="stylesheet" href="https://cdnjs.cloudflare.com/ajax/libs/font-awesome/5.12.1/css/v4-shims.min.css" integrity="sha256-wZjR52fzng1pJHwx4aV2AO3yyTOXrcDW7jBpJtTwVxw=" crossorigin="anonymous"><!-- bootstrap-toc --><script src="https://cdn.jsdelivr.net/gh/afeld/bootstrap-toc@v1.0.1/dist/bootstrap-toc.min.js" integrity="sha256-4veVQbu7//Lk5TSmc7YV48MxtMy98e26cf5MrgZYnwo=" crossorigin="anonymous"></script><!-- headroom.js --><script src="https://cdnjs.cloudflare.com/ajax/libs/headroom/0.11.0/headroom.min.js" integrity="sha256-AsUX4SJE1+yuDu5+mAVzJbuYNPHj/WroHuZ8Ir/CkE0=" crossorigin="anonymous"></script><script src="https://cdnjs.cloudflare.com/ajax/libs/headroom/0.11.0/jQuery.headroom.min.js" integrity="sha256-ZX/yNShbjqsohH1k95liqY9Gd8uOiE1S4vZc+9KQ1K4=" crossorigin="anonymous"></script><!-- clipboard.js --><script src="https://cdnjs.cloudflare.com/ajax/libs/clipboard.js/2.0.6/clipboard.min.js" integrity="sha256-inc5kl9MA1hkeYUt+EC3BhlIgyp/2jDIyBLS6k3UxPI=" crossorigin="anonymous"></script><!-- search --><script src="https://cdnjs.cloudflare.com/ajax/libs/fuse.js/6.4.6/fuse.js" integrity="sha512-zv6Ywkjyktsohkbp9bb45V6tEMoWhzFzXis+LrMehmJZZSys19Yxf1dopHx7WzIKxr5tK2dVcYmaCk2uqdjF4A==" crossorigin="anonymous"></script><script src="https://cdnjs.cloudflare.com/ajax/libs/autocomplete.js/0.38.0/autocomplete.jquery.min.js" integrity="sha512-GU9ayf+66Xx2TmpxqJpliWbT5PiGYxpaG8rfnBEk1LL8l1KGkRShhngwdXK1UgqhAzWpZHSiYPc09/NwDQIGyg==" crossorigin="anonymous"></script><script src="https://cdnjs.cloudflare.com/ajax/libs/mark.js/8.11.1/mark.min.js" integrity="sha512-5CYOlHXGh6QpOFA/TeTylKLWfB3ftPsde7AnmhuitiTX4K5SqCLBeKro6sPS8ilsz1Q4NRx3v8Ko2IBiszzdww==" crossorigin="anonymous"></script><!-- pkgdown --><script src="../pkgdown.js"></script><meta property="og:title" content="Function reference"><meta property="og:image" content="https://davrodecon.github.io/citmre/logo.png"><!-- mathjax --><script src="https://cdnjs.cloudflare.com/ajax/libs/mathjax/2.7.5/MathJax.js" integrity="sha256-nvJJv9wWKEm88qvoQl9ekL2J+k/RWIsaSScxxlsrv8k=" crossorigin="anonymous"></script><script src="https://cdnjs.cloudflare.com/ajax/libs/mathjax/2.7.5/config/TeX-AMS-MML_HTMLorMML.js" integrity="sha256-84DKXVJXs0/F8OTMzX4UR909+jtl4G7SPypPavF+GfA=" crossorigin="anonymous"></script><!--[if lt IE 9]>
 <script src="https://oss.maxcdn.com/html5shiv/3.7.3/html5shiv.min.js"></script>
 <script src="https://oss.maxcdn.com/respond/1.4.2/respond.min.js"></script>
 <![endif]--></head><body>
@@ -40,7 +40,7 @@
 </nav><div class="container template-reference-index">
 <div class="row">
   <main id="main" class="col-md-9"><div class="page-header">
-      <img src="" class="logo" alt=""><h1>Function reference</h1>
+      <img src="../logo.png" class="logo" alt=""><h1>Function reference</h1>
     </div>
 
     <div class="section level2">

diff --git a/docs/articles/index.html b/docs/articles/index.html
@@ -1,5 +1,5 @@
 <!DOCTYPE html>
-<!-- Generated by pkgdown: do not edit by hand --><html lang="en"><head><meta http-equiv="Content-Type" content="text/html; charset=UTF-8"><meta charset="utf-8"><meta http-equiv="X-UA-Compatible" content="IE=edge"><meta name="viewport" content="width=device-width, initial-scale=1, shrink-to-fit=no"><title>Articles • citmre</title><script src="../deps/jquery-3.6.0/jquery-3.6.0.min.js"></script><meta name="viewport" content="width=device-width, initial-scale=1, shrink-to-fit=no"><link href="../deps/bootstrap-5.3.1/bootstrap.min.css" rel="stylesheet"><script src="../deps/bootstrap-5.3.1/bootstrap.bundle.min.js"></script><!-- Font Awesome icons --><link rel="stylesheet" href="https://cdnjs.cloudflare.com/ajax/libs/font-awesome/5.12.1/css/all.min.css" integrity="sha256-mmgLkCYLUQbXn0B1SRqzHar6dCnv9oZFPEC1g1cwlkk=" crossorigin="anonymous"><link rel="stylesheet" href="https://cdnjs.cloudflare.com/ajax/libs/font-awesome/5.12.1/css/v4-shims.min.css" integrity="sha256-wZjR52fzng1pJHwx4aV2AO3yyTOXrcDW7jBpJtTwVxw=" crossorigin="anonymous"><!-- bootstrap-toc --><script src="https://cdn.jsdelivr.net/gh/afeld/bootstrap-toc@v1.0.1/dist/bootstrap-toc.min.js" integrity="sha256-4veVQbu7//Lk5TSmc7YV48MxtMy98e26cf5MrgZYnwo=" crossorigin="anonymous"></script><!-- headroom.js --><script src="https://cdnjs.cloudflare.com/ajax/libs/headroom/0.11.0/headroom.min.js" integrity="sha256-AsUX4SJE1+yuDu5+mAVzJbuYNPHj/WroHuZ8Ir/CkE0=" crossorigin="anonymous"></script><script src="https://cdnjs.cloudflare.com/ajax/libs/headroom/0.11.0/jQuery.headroom.min.js" integrity="sha256-ZX/yNShbjqsohH1k95liqY9Gd8uOiE1S4vZc+9KQ1K4=" crossorigin="anonymous"></script><!-- clipboard.js --><script src="https://cdnjs.cloudflare.com/ajax/libs/clipboard.js/2.0.6/clipboard.min.js" integrity="sha256-inc5kl9MA1hkeYUt+EC3BhlIgyp/2jDIyBLS6k3UxPI=" crossorigin="anonymous"></script><!-- search --><script src="https://cdnjs.cloudflare.com/ajax/libs/fuse.js/6.4.6/fuse.js" integrity="sha512-zv6Ywkjyktsohkbp9bb45V6tEMoWhzFzXis+LrMehmJZZSys19Yxf1dopHx7WzIKxr5tK2dVcYmaCk2uqdjF4A==" crossorigin="anonymous"></script><script src="https://cdnjs.cloudflare.com/ajax/libs/autocomplete.js/0.38.0/autocomplete.jquery.min.js" integrity="sha512-GU9ayf+66Xx2TmpxqJpliWbT5PiGYxpaG8rfnBEk1LL8l1KGkRShhngwdXK1UgqhAzWpZHSiYPc09/NwDQIGyg==" crossorigin="anonymous"></script><script src="https://cdnjs.cloudflare.com/ajax/libs/mark.js/8.11.1/mark.min.js" integrity="sha512-5CYOlHXGh6QpOFA/TeTylKLWfB3ftPsde7AnmhuitiTX4K5SqCLBeKro6sPS8ilsz1Q4NRx3v8Ko2IBiszzdww==" crossorigin="anonymous"></script><!-- pkgdown --><script src="../pkgdown.js"></script><meta property="og:title" content="Articles"><!-- mathjax --><script src="https://cdnjs.cloudflare.com/ajax/libs/mathjax/2.7.5/MathJax.js" integrity="sha256-nvJJv9wWKEm88qvoQl9ekL2J+k/RWIsaSScxxlsrv8k=" crossorigin="anonymous"></script><script src="https://cdnjs.cloudflare.com/ajax/libs/mathjax/2.7.5/config/TeX-AMS-MML_HTMLorMML.js" integrity="sha256-84DKXVJXs0/F8OTMzX4UR909+jtl4G7SPypPavF+GfA=" crossorigin="anonymous"></script><!--[if lt IE 9]>
+<!-- Generated by pkgdown: do not edit by hand --><html lang="en"><head><meta http-equiv="Content-Type" content="text/html; charset=UTF-8"><meta charset="utf-8"><meta http-equiv="X-UA-Compatible" content="IE=edge"><meta name="viewport" content="width=device-width, initial-scale=1, shrink-to-fit=no"><title>Articles • citmre</title><!-- favicons --><link rel="icon" type="image/png" sizes="16x16" href="../favicon-16x16.png"><link rel="icon" type="image/png" sizes="32x32" href="../favicon-32x32.png"><link rel="apple-touch-icon" type="image/png" sizes="180x180" href="../apple-touch-icon.png"><link rel="apple-touch-icon" type="image/png" sizes="120x120" href="../apple-touch-icon-120x120.png"><link rel="apple-touch-icon" type="image/png" sizes="76x76" href="../apple-touch-icon-76x76.png"><link rel="apple-touch-icon" type="image/png" sizes="60x60" href="../apple-touch-icon-60x60.png"><script src="../deps/jquery-3.6.0/jquery-3.6.0.min.js"></script><meta name="viewport" content="width=device-width, initial-scale=1, shrink-to-fit=no"><link href="../deps/bootstrap-5.3.1/bootstrap.min.css" rel="stylesheet"><script src="../deps/bootstrap-5.3.1/bootstrap.bundle.min.js"></script><!-- Font Awesome icons --><link rel="stylesheet" href="https://cdnjs.cloudflare.com/ajax/libs/font-awesome/5.12.1/css/all.min.css" integrity="sha256-mmgLkCYLUQbXn0B1SRqzHar6dCnv9oZFPEC1g1cwlkk=" crossorigin="anonymous"><link rel="stylesheet" href="https://cdnjs.cloudflare.com/ajax/libs/font-awesome/5.12.1/css/v4-shims.min.css" integrity="sha256-wZjR52fzng1pJHwx4aV2AO3yyTOXrcDW7jBpJtTwVxw=" crossorigin="anonymous"><!-- bootstrap-toc --><script src="https://cdn.jsdelivr.net/gh/afeld/bootstrap-toc@v1.0.1/dist/bootstrap-toc.min.js" integrity="sha256-4veVQbu7//Lk5TSmc7YV48MxtMy98e26cf5MrgZYnwo=" crossorigin="anonymous"></script><!-- headroom.js --><script src="https://cdnjs.cloudflare.com/ajax/libs/headroom/0.11.0/headroom.min.js" integrity="sha256-AsUX4SJE1+yuDu5+mAVzJbuYNPHj/WroHuZ8Ir/CkE0=" crossorigin="anonymous"></script><script src="https://cdnjs.cloudflare.com/ajax/libs/headroom/0.11.0/jQuery.headroom.min.js" integrity="sha256-ZX/yNShbjqsohH1k95liqY9Gd8uOiE1S4vZc+9KQ1K4=" crossorigin="anonymous"></script><!-- clipboard.js --><script src="https://cdnjs.cloudflare.com/ajax/libs/clipboard.js/2.0.6/clipboard.min.js" integrity="sha256-inc5kl9MA1hkeYUt+EC3BhlIgyp/2jDIyBLS6k3UxPI=" crossorigin="anonymous"></script><!-- search --><script src="https://cdnjs.cloudflare.com/ajax/libs/fuse.js/6.4.6/fuse.js" integrity="sha512-zv6Ywkjyktsohkbp9bb45V6tEMoWhzFzXis+LrMehmJZZSys19Yxf1dopHx7WzIKxr5tK2dVcYmaCk2uqdjF4A==" crossorigin="anonymous"></script><script src="https://cdnjs.cloudflare.com/ajax/libs/autocomplete.js/0.38.0/autocomplete.jquery.min.js" integrity="sha512-GU9ayf+66Xx2TmpxqJpliWbT5PiGYxpaG8rfnBEk1LL8l1KGkRShhngwdXK1UgqhAzWpZHSiYPc09/NwDQIGyg==" crossorigin="anonymous"></script><script src="https://cdnjs.cloudflare.com/ajax/libs/mark.js/8.11.1/mark.min.js" integrity="sha512-5CYOlHXGh6QpOFA/TeTylKLWfB3ftPsde7AnmhuitiTX4K5SqCLBeKro6sPS8ilsz1Q4NRx3v8Ko2IBiszzdww==" crossorigin="anonymous"></script><!-- pkgdown --><script src="../pkgdown.js"></script><meta property="og:title" content="Articles"><meta property="og:image" content="https://davrodecon.github.io/citmre/logo.png"><!-- mathjax --><script src="https://cdnjs.cloudflare.com/ajax/libs/mathjax/2.7.5/MathJax.js" integrity="sha256-nvJJv9wWKEm88qvoQl9ekL2J+k/RWIsaSScxxlsrv8k=" crossorigin="anonymous"></script><script src="https://cdnjs.cloudflare.com/ajax/libs/mathjax/2.7.5/config/TeX-AMS-MML_HTMLorMML.js" integrity="sha256-84DKXVJXs0/F8OTMzX4UR909+jtl4G7SPypPavF+GfA=" crossorigin="anonymous"></script><!--[if lt IE 9]>
 <script src="https://oss.maxcdn.com/html5shiv/3.7.3/html5shiv.min.js"></script>
 <script src="https://oss.maxcdn.com/respond/1.4.2/respond.min.js"></script>
 <![endif]--></head><body>
@@ -40,7 +40,7 @@
 </nav><div class="container template-article-index">
 <div class="row">
   <main id="main" class="col-md-9"><div class="page-header">
-      <img src="" class="logo" alt=""><h1>Articles</h1>
+      <img src="../logo.png" class="logo" alt=""><h1>Articles</h1>
     </div>
 
     <div class="section ">

diff --git a/docs/index.html b/docs/index.html
@@ -99,12 +99,12 @@
 <span></span>
 <span><span class="co">#Show splited log return dataset</span></span>
 <span><span class="va">rmre_splited</span> <span class="op">&lt;-</span> <span class="fu"><a href="reference/rmre_data.html">rmre_data</a></span><span class="op">(</span><span class="st">'2000-01-01'</span>,<span class="st">'2023-12-31'</span>,log_return <span class="op">=</span> <span class="cn">TRUE</span><span class="op">)</span></span>
-<span><span class="co">#&gt; Warning in doTryCatch(return(expr), name, parentenv, handler): start_date:The</span></span>
-<span><span class="co">#&gt; information will be obtained from the next business day, as the desired date is</span></span>
-<span><span class="co">#&gt; a holiday or weekend.</span></span>
+<span><span class="co">#&gt; Warning in doTryCatch(return(expr), name, parentenv, handler): start_date: The</span></span>
+<span><span class="co">#&gt; piece of information will be obtained from the next business day, as the</span></span>
+<span><span class="co">#&gt; desired date falls on a holiday or weekend.</span></span>
 <span><span class="co">#&gt; Warning in doTryCatch(return(expr), name, parentenv, handler): end_date: The</span></span>
-<span><span class="co">#&gt; information will be obtained from the next business day, as the desired date is</span></span>
-<span><span class="co">#&gt; a holiday or weekend.</span></span>
+<span><span class="co">#&gt; piece of information will be obtained from the next business day, as the</span></span>
+<span><span class="co">#&gt; desired date falls on a holiday or weekend.</span></span>
 <span></span>
 <span><span class="co">#plot</span></span>
 <span><span class="fu"><a href="https://rdrr.io/r/graphics/plot.default.html" class="external-link">plot</a></span><span class="op">(</span><span class="va">rmre_serie</span><span class="op">)</span></span></code></pre></div>
